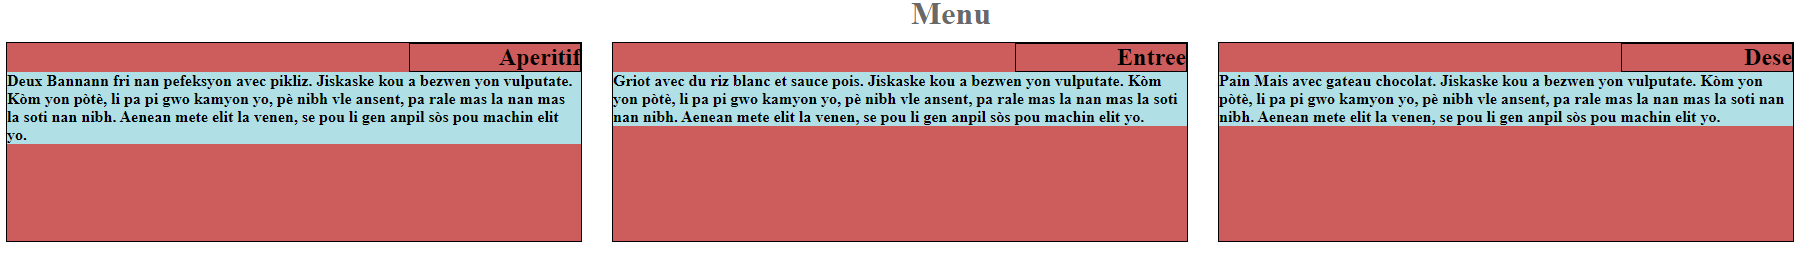
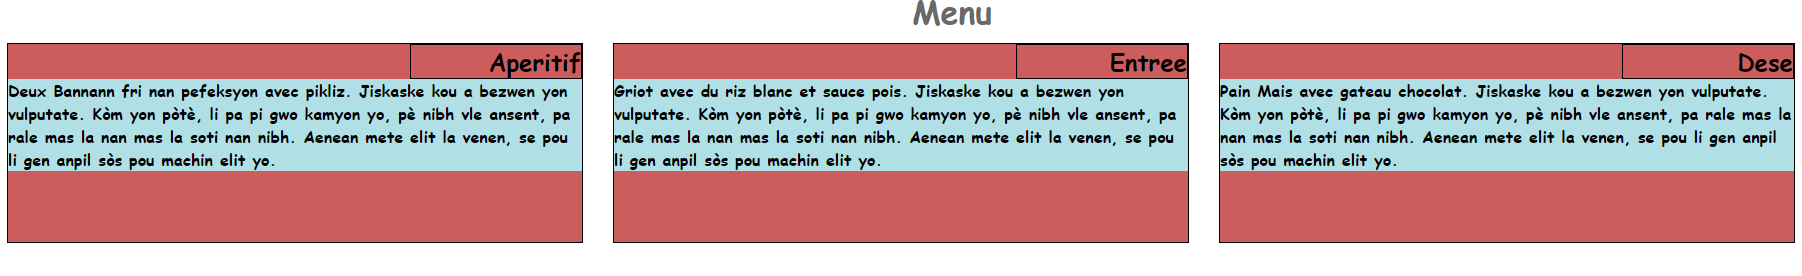
Add files via upload

Changed region(s): [[0.0, 0.1449, 1.0, 0.8986], [0.4972, 0.0, 0.5594, 0.087]]

diff --git a/mod2_code/Mod2code.html b/mod2_code/Mod2code.html
@@ -13,6 +13,7 @@
 		body	{
 			margin: 0;
 			Padding:  0;
+			font-family: Garamond, cursive, sans-serif;
 		}
 		#A, #E, #D	{
 			background-color: indianred;

diff --git a/mod2_code/stylemod2.css b/mod2_code/stylemod2.css
@@ -7,6 +7,7 @@
 		body	{
 			margin: 0;
 			Padding:  0;
+			font-family: Garamond, cursive, sans-serif;
 		}
 		#A, #E, #D	{
 			background-color: indianred;
